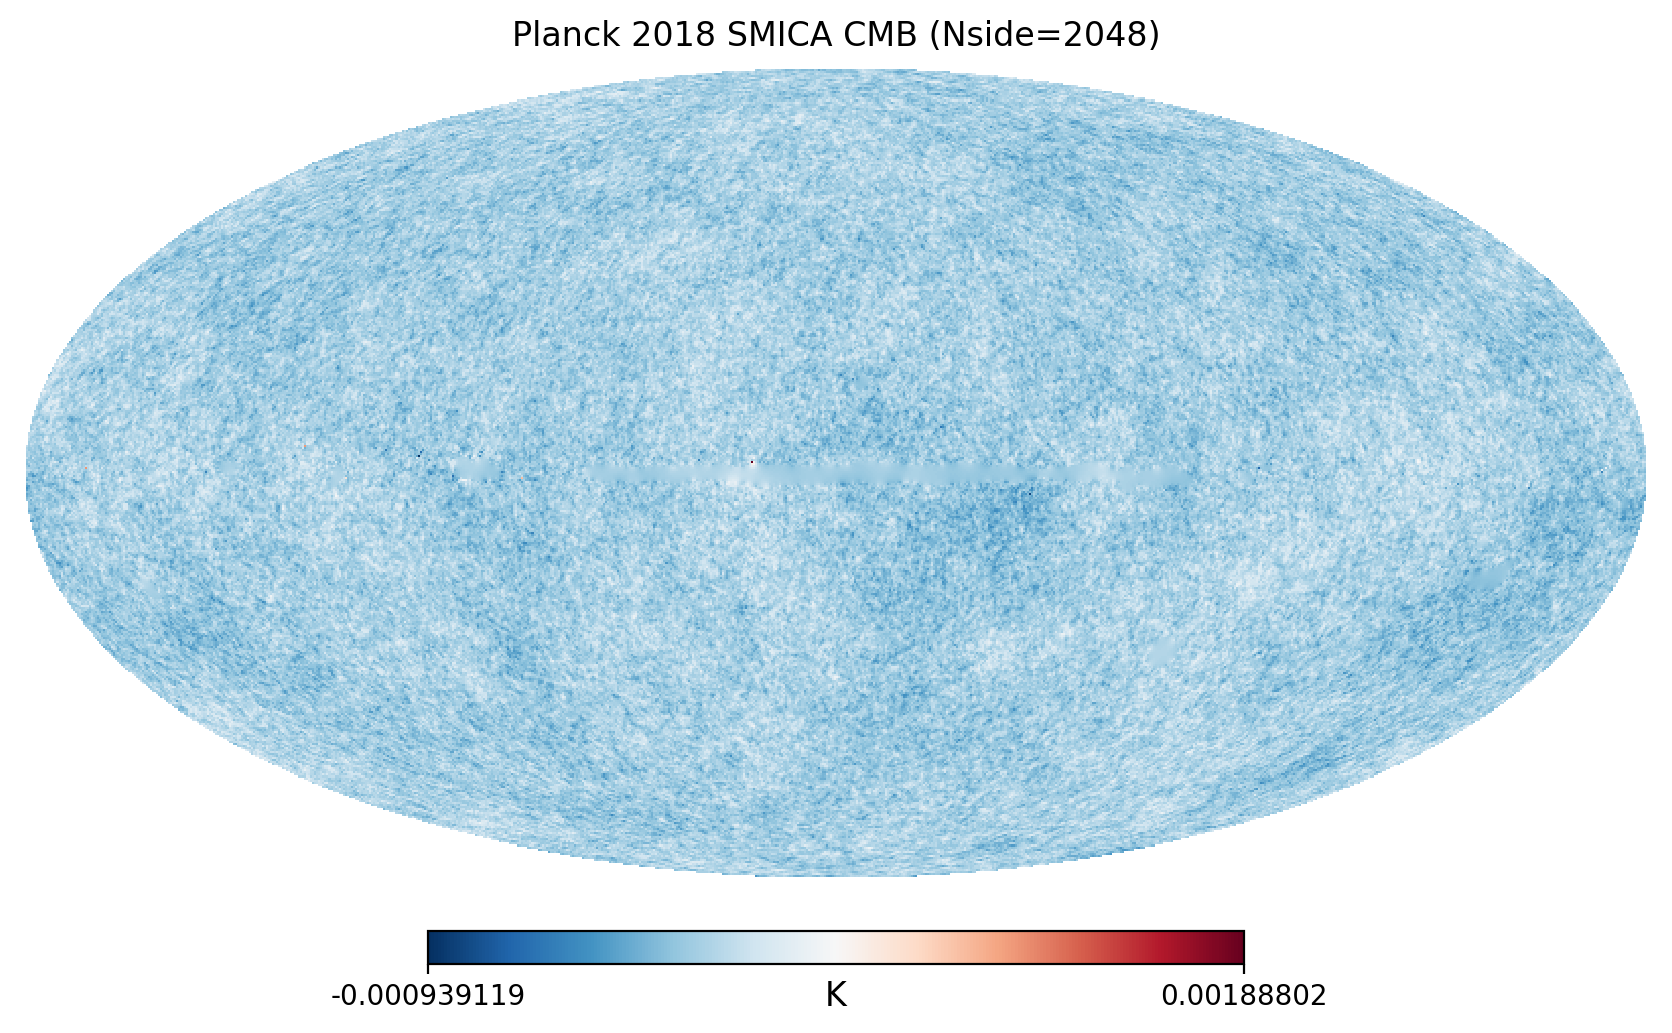
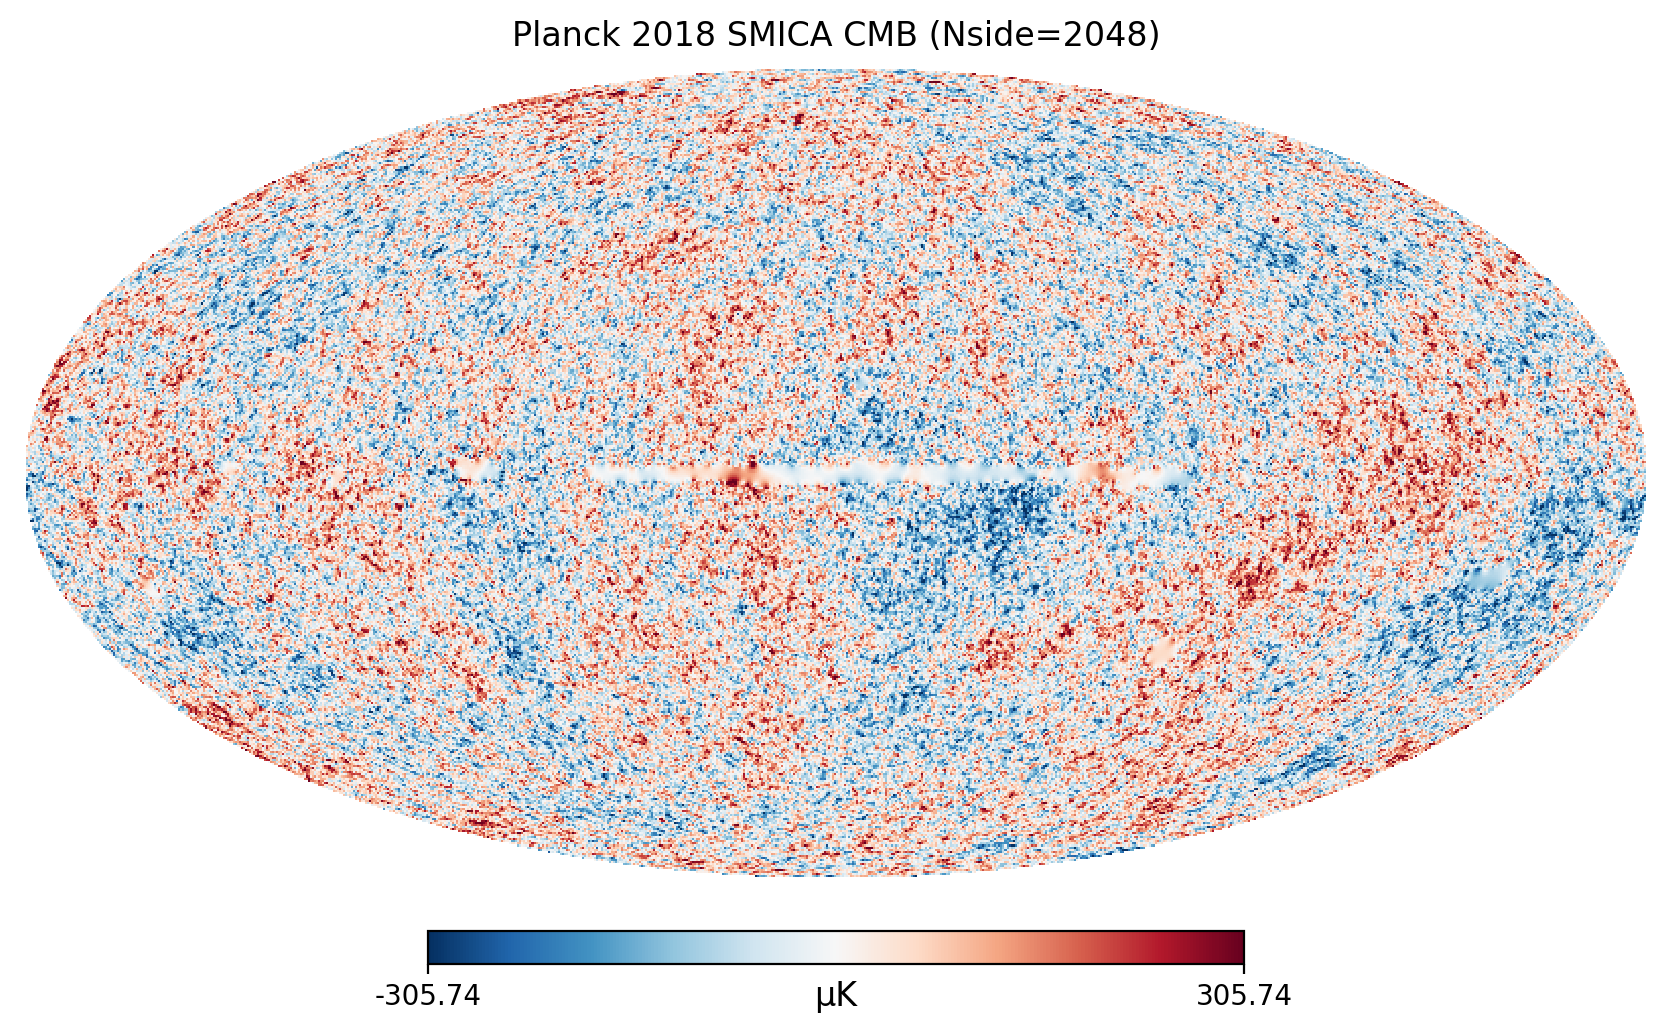
Fix Phase 1 SMICA visualization scaling

diff --git a/scripts/phase1_explore.py b/scripts/phase1_explore.py
@@ -34,6 +34,8 @@ MASK_URL = (
 )
 MASK_FILE = os.path.join(DATA_DIR, "COM_Mask_CMB-common-Mask-Int_2048_R3.00.fits")
 
+DISPLAY_UK = 300.0
+
 
 def download_file(url, dest):
     if os.path.exists(dest):
@@ -68,6 +70,22 @@ def download_file(url, dest):
     print(f"  Done: {size_mb:.1f} MB")
 
 
+def to_display_uk(cmb_map, floor_uk=DISPLAY_UK):
+    """
+    Convert a temperature-anisotropy map from K to µK and choose a symmetric
+    display range centered on zero.
+
+    The map itself is already mean-zero anisotropy, but autoscaling in kelvin
+    produces a visually misleading pale-blue wash. For presentation we display
+    it in µK with symmetric limits, using at least +/-300 µK.
+    """
+    finite = np.isfinite(cmb_map) & (cmb_map != hp.UNSEEN)
+    map_uk = cmb_map * 1e6
+    vmax = np.percentile(np.abs(map_uk[finite]), 99.5)
+    vmax = max(float(floor_uk), float(vmax))
+    return map_uk, -vmax, vmax
+
+
 def main():
     os.makedirs(DATA_DIR, exist_ok=True)
     os.makedirs(PLOT_DIR, exist_ok=True)
@@ -88,11 +106,14 @@ def main():
 
     # ── Step 3: Full-sky Mollweide plot at original resolution ─────────
     print("\n=== Step 3: Plot full-sky map (original Nside) ===")
+    smica_map_uk, full_vmin, full_vmax = to_display_uk(smica_map)
     hp.mollview(
-        smica_map,
+        smica_map_uk,
         title=f"Planck 2018 SMICA CMB (Nside={nside_orig})",
-        unit="K",
+        unit="µK",
         cmap="RdBu_r",
+        min=full_vmin,
+        max=full_vmax,
     )
     path_fullsky = os.path.join(PLOT_DIR, "01_smica_fullsky.png")
     plt.savefig(path_fullsky, dpi=200, bbox_inches="tight")
@@ -106,11 +127,14 @@ def main():
     print(f"  Nside: {nside_low}")
     print(f"  Npix:  {len(smica_256):,}")
 
+    smica_256_uk, low_vmin, low_vmax = to_display_uk(smica_256)
     hp.mollview(
-        smica_256,
+        smica_256_uk,
         title=f"Planck 2018 SMICA CMB (degraded to Nside={nside_low})",
-        unit="K",
+        unit="µK",
         cmap="RdBu_r",
+        min=low_vmin,
+        max=low_vmax,
     )
     path_degraded = os.path.join(PLOT_DIR, "02_smica_nside256.png")
     plt.savefig(path_degraded, dpi=200, bbox_inches="tight")
@@ -130,11 +154,14 @@ def main():
         masked_map = np.copy(smica_256)
         masked_map[mask_256 < 0.5] = hp.UNSEEN
 
+        masked_map_uk, masked_vmin, masked_vmax = to_display_uk(masked_map)
         hp.mollview(
-            masked_map,
+            masked_map_uk,
             title=f"SMICA Nside={nside_low} with galactic mask ({sky_fraction:.0%} sky)",
-            unit="K",
+            unit="µK",
             cmap="RdBu_r",
+            min=masked_vmin,
+            max=masked_vmax,
         )
         path_masked = os.path.join(PLOT_DIR, "03_smica_masked.png")
         plt.savefig(path_masked, dpi=200, bbox_inches="tight")
@@ -161,13 +188,15 @@ def main():
     print(f"  FOV:    {fov_deg:.1f} degrees")
 
     patch = hp.gnomview(
-        smica_256,
+        smica_256_uk,
         rot=(gal_lon_deg, gal_lat_deg),
         reso=reso_arcmin,
         xsize=patch_size,
         title=f"Gnomonic patch near Cold Spot (l={gal_lon_deg}, b={gal_lat_deg})",
-        unit="K",
+        unit="µK",
         cmap="RdBu_r",
+        min=low_vmin,
+        max=low_vmax,
         return_projected_map=True,
     )
     path_patch = os.path.join(PLOT_DIR, "04_gnomonic_cold_spot.png")
@@ -175,18 +204,20 @@ def main():
     plt.close()
     print(f"  Saved: {path_patch}")
     print(f"  Patch shape: {patch.shape}")
-    print(f"  Patch min: {np.nanmin(patch):.6e}, max: {np.nanmax(patch):.6e}")
+    print(f"  Patch min: {np.nanmin(patch):.2f} µK, max: {np.nanmax(patch):.2f} µK")
 
     # Extract a second patch at a random high-latitude location for comparison
     gal_lon2, gal_lat2 = 45.0, 60.0
     patch2 = hp.gnomview(
-        smica_256,
+        smica_256_uk,
         rot=(gal_lon2, gal_lat2),
         reso=reso_arcmin,
         xsize=patch_size,
         title=f"Gnomonic patch (l={gal_lon2}, b={gal_lat2})",
-        unit="K",
+        unit="µK",
         cmap="RdBu_r",
+        min=low_vmin,
+        max=low_vmax,
         return_projected_map=True,
     )
     path_patch2 = os.path.join(PLOT_DIR, "05_gnomonic_highlat.png")
